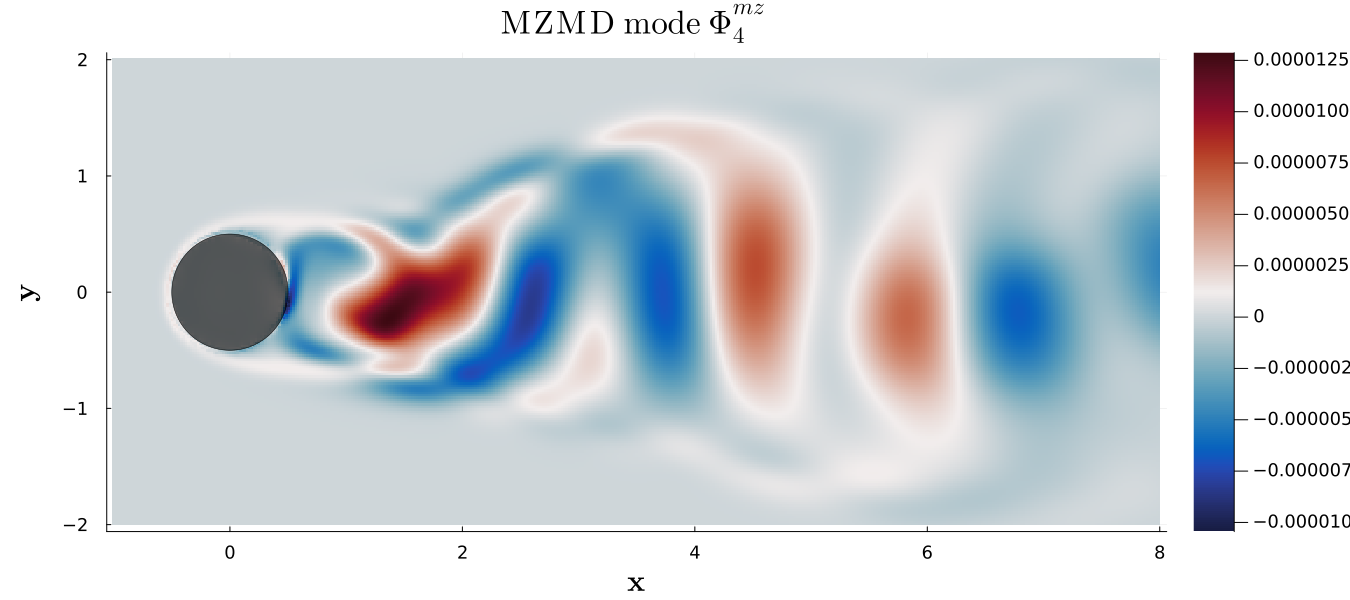
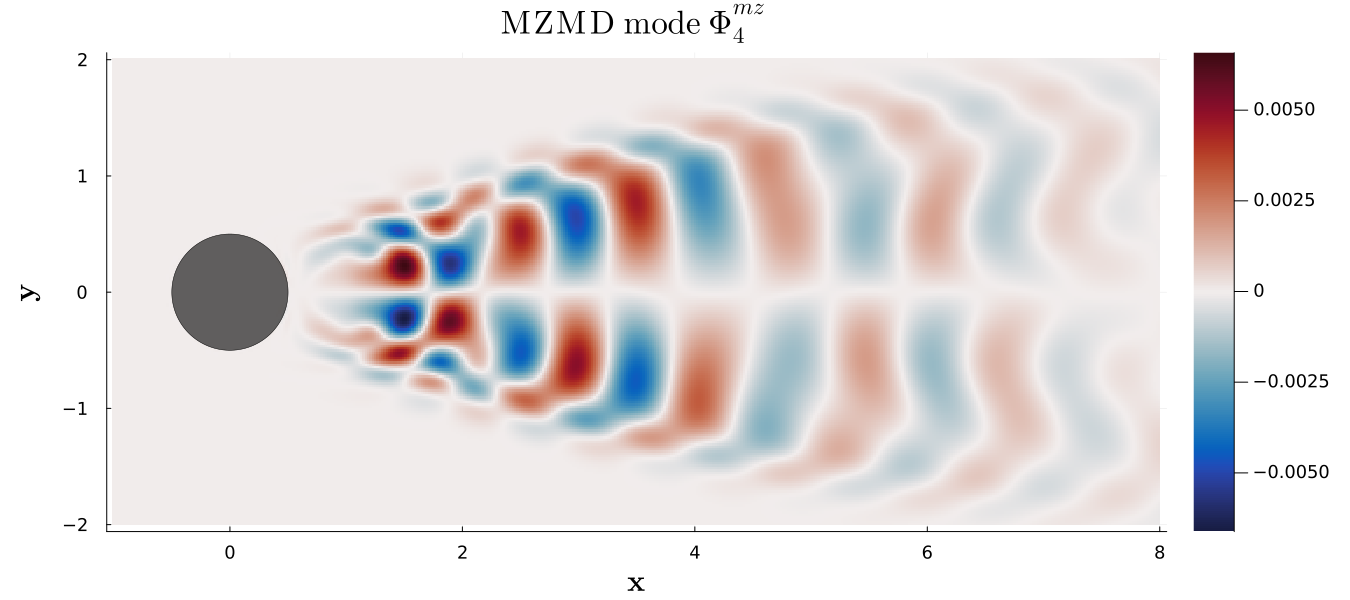
mzmd cylinder run update module

diff --git a/README.md b/README.md
@@ -15,12 +15,12 @@ MZMD represents a generalization of the DMD algorithm [[1]](#1) by including MZ 
 ### Installation
 The Julia programming languange (https://julialang.org/) was designed for high performance scientific computing. The instructions for downloading Julia can be found in https://julialang.org/downloads/. Once Julia is installed, this package can be downloaded as follows. You can run julia in command line (REPL), or in vscode (which is a convient to use IDE) as described in https://code.visualstudio.com/docs/languages/julia
 
-
-Within the julia REPL (which can be accessed by typing "julia" in the command line), download this package via
+To run the code, start with running mzmd_cylinder.jl, which produces several figures to compare DMD with MZMD.
+<!-- Within the julia REPL (which can be accessed by typing "julia" in the command line), download this package via
 >] add MoriZwanzigModalDecomposition
 
 or with
-> import Pkg; Pkg.add("MoriZwanzigModalDecomposition")
+> import Pkg; Pkg.add("MoriZwanzigModalDecomposition") -->
 
 
 ### Basic usage: 2D flow over a cyclinder  at $Re = 200$
